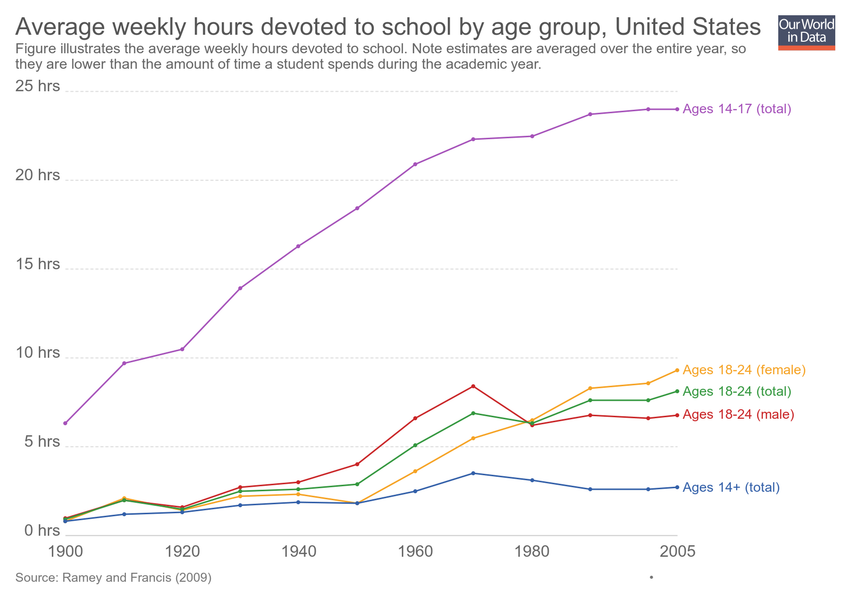
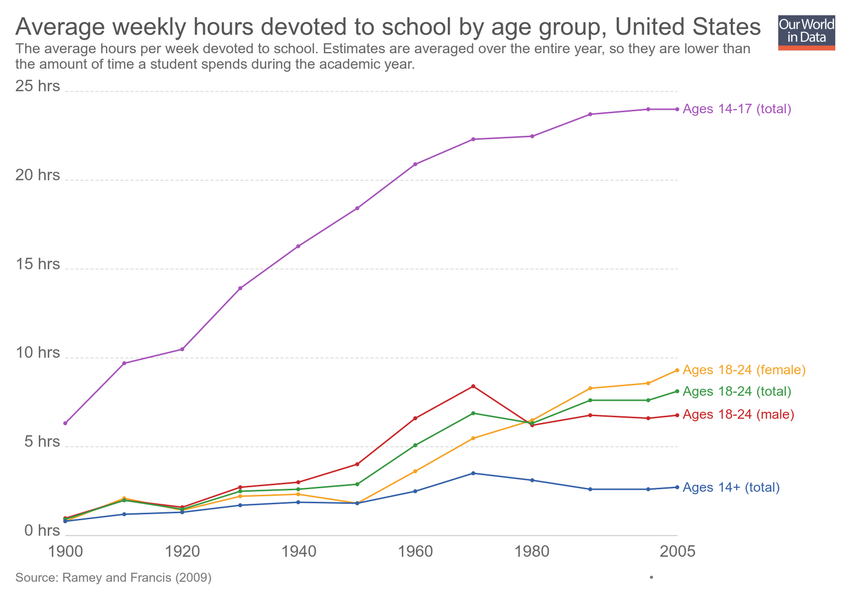
Updating chart average-weekly-hours-devoted-to-school-united-states

Changed region(s): [[0.0, 0.06, 0.8871, 0.12]]

diff --git a/grapher/average-weekly-hours-devoted-to-school-united-states.html b/grapher/average-weekly-hours-devoted-to-school-united-states.html
@@ -1,4 +1,4 @@
-<!doctype html><html><head><meta name="viewport" content="width=device-width, initial-scale=1" /><title>Average weekly hours devoted to school by age group, United States - Our World in Data</title><meta name="description" content="Figure illustrates the average weekly hours devoted to school. Note estimates are averaged over the entire year, so they are lower than the amount of time a student spends during the academic year. " /><link rel="canonical" href="https://ourworldindata.org/grapher/average-weekly-hours-devoted-to-school-united-states" /><meta property="fb:app_id" content="1149943818390250" /><meta property="og:url" content="https://ourworldindata.org/grapher/average-weekly-hours-devoted-to-school-united-states" /><meta property="og:title" content="Average weekly hours devoted to school by age group, United States" /><meta property="og:description" content="Figure illustrates the average weekly hours devoted to school. Note estimates are averaged over the entire year, so they are lower than the amount of time a student spends during the academic year. " /><meta property="og:image" content="https://ourworldindata.org/grapher/exports/average-weekly-hours-devoted-to-school-united-states.png?v=2" /><meta property="og:image:width" content="850" /><meta property="og:image:height" content="600" /><meta property="og:site_name" content="Our World in Data" /><meta name="twitter:card" content="summary_large_image" /><meta name="twitter:site" content="@OurWorldInData" /><meta name="twitter:creator" content="@OurWorldInData" /><meta name="twitter:title" content="Average weekly hours devoted to school by age group, United States" /><meta name="twitter:description" content="Figure illustrates the average weekly hours devoted to school. Note estimates are averaged over the entire year, so they are lower than the amount of time a student spends during the academic year. " /><meta name="twitter:image" content="https://ourworldindata.org/grapher/exports/average-weekly-hours-devoted-to-school-united-states.png?v=2" /><style>
+<!doctype html><html><head><meta name="viewport" content="width=device-width, initial-scale=1" /><title>Average weekly hours devoted to school by age group, United States - Our World in Data</title><meta name="description" content="The average hours per week devoted to school. Estimates are averaged over the entire year, so they are lower than the amount of time a student spends during the academic year. " /><link rel="canonical" href="https://ourworldindata.org/grapher/average-weekly-hours-devoted-to-school-united-states" /><meta property="fb:app_id" content="1149943818390250" /><meta property="og:url" content="https://ourworldindata.org/grapher/average-weekly-hours-devoted-to-school-united-states" /><meta property="og:title" content="Average weekly hours devoted to school by age group, United States" /><meta property="og:description" content="The average hours per week devoted to school. Estimates are averaged over the entire year, so they are lower than the amount of time a student spends during the academic year. " /><meta property="og:image" content="https://ourworldindata.org/grapher/exports/average-weekly-hours-devoted-to-school-united-states.png?v=3" /><meta property="og:image:width" content="850" /><meta property="og:image:height" content="600" /><meta property="og:site_name" content="Our World in Data" /><meta name="twitter:card" content="summary_large_image" /><meta name="twitter:site" content="@OurWorldInData" /><meta name="twitter:creator" content="@OurWorldInData" /><meta name="twitter:title" content="Average weekly hours devoted to school by age group, United States" /><meta name="twitter:description" content="The average hours per week devoted to school. Estimates are averaged over the entire year, so they are lower than the amount of time a student spends during the academic year. " /><meta name="twitter:image" content="https://ourworldindata.org/grapher/exports/average-weekly-hours-devoted-to-school-united-states.png?v=3" /><style>
         html, body {
             height: 100%;
             margin: 0;
@@ -20,8 +20,8 @@
         }
     </style><noscript><style>
                     figure { display: none !important; }
-                </style></noscript><link rel="stylesheet" href="https://ourworldindata.org/grapher/assets/commons.bundle.e61261d2881056c44b1d.css" /><link rel="preload" href="/grapher/data/variables/97537.json?v=2" as="fetch" crossorigin /></head><body class="singleChart"><figure data-grapher-src="/grapher/average-weekly-hours-devoted-to-school-united-states"></figure><noscript id="fallback"><img src="/grapher/exports/average-weekly-hours-devoted-to-school-united-states.svg" /><p>Interactive visualization requires JavaScript</p></noscript><script src="https://cdn.polyfill.io/v2/polyfill.min.js?features=es6,fetch"></script><script src="https://ourworldindata.org/grapher/assets/commons.bundle.e61261d2881056c44b1d.js"></script><script src="https://ourworldindata.org/grapher/assets/charts.bundle.e61261d2881056c44b1d.js"></script><script>
-        var jsonConfig = {"id":2825,"map":{"projection":"World","colorSchemeLabels":[],"colorSchemeValues":[],"customNumericColors":[],"customCategoryColors":{},"customCategoryLabels":{},"customHiddenCategories":{}},"tab":"chart","slug":"average-weekly-hours-devoted-to-school-united-states","type":"LineChart","title":"Average weekly hours devoted to school by age group, United States","xAxis":{"scaleType":"linear"},"yAxis":{"max":25,"min":0,"scaleType":"linear"},"version":2,"subtitle":"Figure illustrates the average weekly hours devoted to school. Note estimates are averaged over the entire year, so they are lower than the amount of time a student spends during the academic year. ","hasMapTab":false,"stackMode":"absolute","dimensions":[{"display":{"shortUnit":"hrs"},"property":"y","variableId":97537}],"entityType":"data","hasChartTab":true,"isPublished":true,"selectedData":[{"index":0,"entityId":37583},{"index":0,"entityId":37585},{"index":0,"entityId":37586},{"index":0,"entityId":37587},{"index":0,"entityId":37580}],"addCountryMode":"add-country","hideTitleAnnotation":true};
+                </style></noscript><link rel="stylesheet" href="https://ourworldindata.org/grapher/assets/commons.bundle.e61261d2881056c44b1d.css" /><link rel="preload" href="/grapher/data/variables/97537.json?v=3" as="fetch" crossorigin /></head><body class="singleChart"><figure data-grapher-src="/grapher/average-weekly-hours-devoted-to-school-united-states"></figure><noscript id="fallback"><img src="/grapher/exports/average-weekly-hours-devoted-to-school-united-states.svg" /><p>Interactive visualization requires JavaScript</p></noscript><script src="https://cdn.polyfill.io/v2/polyfill.min.js?features=es6,fetch"></script><script src="https://ourworldindata.org/grapher/assets/commons.bundle.e61261d2881056c44b1d.js"></script><script src="https://ourworldindata.org/grapher/assets/charts.bundle.e61261d2881056c44b1d.js"></script><script>
+        var jsonConfig = {"id":2825,"map":{"projection":"World","colorSchemeLabels":[],"colorSchemeValues":[],"customNumericColors":[],"customCategoryColors":{},"customCategoryLabels":{},"customHiddenCategories":{}},"tab":"chart","slug":"average-weekly-hours-devoted-to-school-united-states","type":"LineChart","title":"Average weekly hours devoted to school by age group, United States","xAxis":{"scaleType":"linear"},"yAxis":{"max":25,"min":0,"scaleType":"linear"},"version":3,"subtitle":"The average hours per week devoted to school. Estimates are averaged over the entire year, so they are lower than the amount of time a student spends during the academic year. ","hasMapTab":false,"stackMode":"absolute","dimensions":[{"display":{"shortUnit":"hrs"},"property":"y","variableId":97537}],"entityType":"data","hasChartTab":true,"isPublished":true,"selectedData":[{"index":0,"entityId":37583},{"index":0,"entityId":37585},{"index":0,"entityId":37586},{"index":0,"entityId":37587},{"index":0,"entityId":37580}],"addCountryMode":"add-country","hideTitleAnnotation":true};
         var figure = document.getElementsByTagName("figure")[0];
         try {
             window.App = {};
